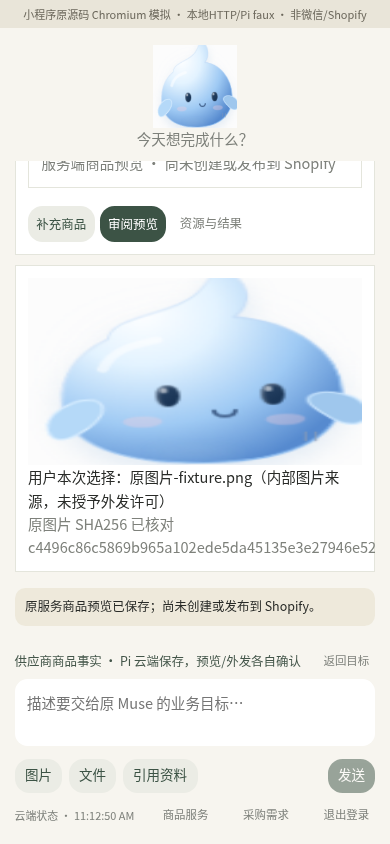
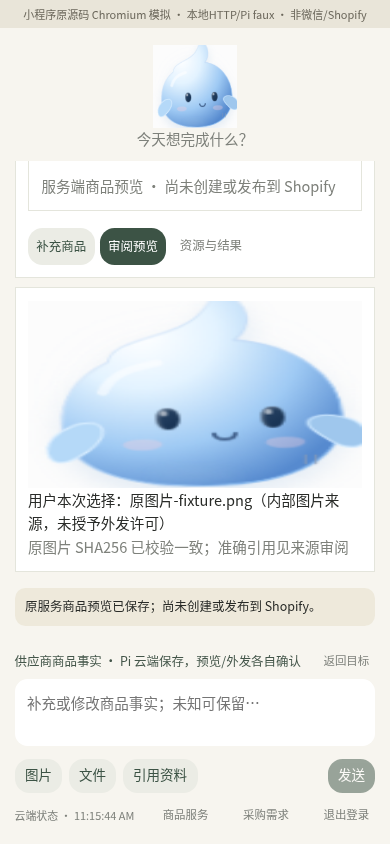
fix(wechat): keep supplier summaries concise and recover exact read receipts

Changed region(s): [[0.0615, 0.1848, 0.9538, 0.6777], [0.0615, 0.8009, 0.6154, 0.8626], [0.2462, 0.955, 0.3077, 0.9858]]

diff --git a/miniprogram/src/shared/supplier.ts b/miniprogram/src/shared/supplier.ts
@@ -8,7 +8,7 @@ export type SupplierService = { id: string; serviceId: string; conversationId: s
 };
 export type SupplierSample = { salesStatus: string; trafficStatus: string; sales: { grossUnits: number; cancelledUnits: number; refundedUnits: number; retainedUnits: number; revenue: null } | null;
   traffic: { sessions: number; sampledAt: string; coverage: { from: string; to: string }; complete: boolean; dataLagSeconds: number | null; source: string } | null;
-  sampledAt: string; coverage: { from: string; to: string }; dataLagSeconds: number | null; completePagination: boolean; errors: { code: string }[]; source: string;
+  sampledAt: string; coverage: { from: string; to: string }; dataLagSeconds: number | null; completePagination?: boolean; errors: { code: string }[]; source?: string;
 };
 export type SupplierSummary = SupplierSample & { monitorId: string; startAt: string; endAt: string; revision: number; contentHash: string; corrected: boolean; provisional: boolean; notificationCount: number; messageId: string };
 export type SupplierMonitor = { id: string; serviceId: string; conversationId: string; scopeHash: string; status: string; scheduleEnabled: boolean; externalNotifications: string;
@@ -33,9 +33,9 @@ export function presentSupplier(value: SupplierService) {
 }
 export function sampleText(sample: SupplierSample | null) {
   if (!sample) return '尚未读取销量与产品流量；缺数不能当作零。';
-  return `${sample.salesStatus === 'available' && sample.sales ? `保留销量 ${show(sample.sales.retainedUnits)}；原下单 ${show(sample.sales.grossUnits)}，取消 ${show(sample.sales.cancelledUnits)}，退款 ${show(sample.sales.refundedUnits)}（可重叠，不重复扣减）` : '销量不可用，未按零处理'}\n${sample.traffic && ['available','partial'].includes(sample.trafficStatus) ? `产品流量 ${show(sample.traffic.sessions)} · ${sample.trafficStatus === 'partial' ? '覆盖不完整' : '原来源可用'}` : `产品流量 ${sample.trafficStatus === 'unsupported' ? '当前来源不支持产品归因' : '不可用'}`}\n采样 ${sample.sampledAt}\n覆盖 ${sample.coverage.from} 至 ${sample.coverage.to}\n延迟 ${sample.dataLagSeconds === null ? '未知' : sample.dataLagSeconds + ' 秒'} · 分页 ${sample.completePagination ? '完整' : '不完整'}\n${sample.errors.map(item=>supplierErrorText(item.code)).join('；')}`;
+  return `${sample.salesStatus === 'available' && sample.sales ? `保留销量 ${show(sample.sales.retainedUnits)}；原下单 ${show(sample.sales.grossUnits)}，取消 ${show(sample.sales.cancelledUnits)}，退款 ${show(sample.sales.refundedUnits)}（可重叠，不重复扣减）` : '销量不可用，未按零处理'}\n${sample.traffic && ['available','partial'].includes(sample.trafficStatus) ? `产品流量 ${show(sample.traffic.sessions)} · ${sample.trafficStatus === 'partial' ? '覆盖不完整' : '原来源可用'}` : `产品流量 ${sample.trafficStatus === 'unsupported' ? '当前来源不支持产品归因' : '不可用'}`}\n采样 ${sample.sampledAt}\n覆盖 ${sample.coverage.from} 至 ${sample.coverage.to}\n延迟 ${sample.dataLagSeconds === null ? '未知' : sample.dataLagSeconds + ' 秒'} · 分页 ${sample.completePagination === undefined ? '总结未提供，见原采样' : sample.completePagination ? '完整' : '不完整'}\n数据源 ${sample.source || '总结未提供，见原采样'}\n${sample.errors.map(item=>supplierErrorText(item.code)).join('；')}`;
 }
 export function presentMonitor(value: SupplierMonitor) {
-  return { ...value, detail: `${value.scope.productId}\n${value.scope.startAt} 至 ${value.scope.endAt}\n${value.scheduleEnabled ? '原 Schedule 已启用，以服务端执行记录为准' : '配置尚未启用，需要原 Schedule 明确审批'}\n${value.stoppedAt ? '已停止原监测' : '状态 ' + value.status}\n${sampleText(value.latestSample)}\n外部通知${value.externalNotifications === 'not_configured' ? '未配置' : '待核对'}`,
-    summaryText: value.summary ? `原会话总结修订 ${value.summary.revision}${value.summary.corrected ? ' · 已更正同一消息' : ''}\n消息 ${value.summary.messageId}\n${sampleText(value.summary)}` : '' };
+  return { ...value, detail: `${value.scope.productId}\n变体 ${value.scope.variantIds.length ? value.scope.variantIds.join('、') : '产品全部变体（原范围）'}\n开始依据 ${value.scope.startSource === 'verified_online_store_publication' ? '已核验在线商店发布时间' : '用户明确 UTC 时间'}\n${value.scope.startAt} 至 ${value.scope.endAt}\n${value.scheduleEnabled ? '原 Schedule 已启用，以服务端执行记录为准' : '配置尚未启用，需要原 Schedule 明确审批'}\n${value.stoppedAt ? '已停止原监测' : '状态 ' + value.status}\n${sampleText(value.latestSample)}\n外部通知${value.externalNotifications === 'not_configured' ? '未配置' : '待核对'}`,
+    summaryText: value.summary ? `原会话总结已保存 · 修订 ${value.summary.revision}${value.summary.corrected ? ' · 已更正同一消息' : ''}${value.summary.provisional ? ' · 数据未齐，等待原来源更正' : ''}\n外部通知未配置；后续更正复用原消息。` : '' };
 }

diff --git a/miniprogram/src/pages/conversation/index.ts b/miniprogram/src/pages/conversation/index.ts
@@ -85,7 +85,7 @@ Page({
       this.setData({ conversationId: id, ...view, messages: view.messages.map(value => value.source === 'procurement' ? { ...value, content: procurementMessage(value.content, value.supplyInquiryId) } : value), cards, readError: '', uncertain: client().uncertain, pendingLabel, pendingSummary: client().pendingSummary, readAt: new Date().toLocaleTimeString(),
         museDrafts: drafts, draftCards, selectedDraft: selected || null, goalBlocked: client().requiresOriginalMuse && (!originalBound || !client().museDraftCapable), busy: view.busy || drafts.some(value => ['pending', 'preparing', 'rejecting'].includes(value.phase)),
         drafting: drafts.some(value => value.phase === 'pending'), needsDraftInput: active?.phase === 'needs_information',
-        composerHint: active?.phase === 'needs_information' ? '只需补充上面必要的信息…' : active?.editable ? '补充或修改这份草案…' : '描述要交给原 Muse 的业务目标…',
+        composerHint: this.data.supplierMode ? this.data.supplierCommand === 'monitors' ? '提供既有 Shopify 商品 gid 和明确 UTC 开始时间…' : this.data.supplierCommand === 'shopify-observation' ? '提供既有 Shopify 商品 gid，可附渠道 publication gid…' : '补充或修改商品事实；未知可保留…' : active?.phase === 'needs_information' ? '只需补充上面必要的信息…' : active?.editable ? '补充或修改这份草案…' : '描述要交给原 Muse 的业务目标…',
         ...(client().pendingDraft && !this.data.draft ? { draft: client().pendingDraft } : {}), ...(client().pendingKind === 'procurement-reply' ? { replyInquiryId: client().pendingInquiryId } : {}), runtimeNotice: client().requiresOriginalMuse && !originalBound ? '原 Muse 会话尚未绑定；目标处理已阻挡，采购需求仍可按需关联与回复。' : client().requiresOriginalMuse && !client().museDraftCapable ? '当前服务尚未提供原 Muse 草案能力；此意图已阻挡，请先完成服务接入。' : snapshot.runtime?.configured === false ? '云端模型尚未接入，发送后会保存请求并显示真实阻挡原因。' : '' });
       if (client().pendingKind.startsWith('supplier-')) this.setData({supplierMode:true,selectedSupplierId:client().pendingSupplierId || this.data.selectedSupplierId});
       this.setData({supplierAvailable:client().supplierCapable});
@@ -180,7 +180,7 @@ Page({
       const data:Record<string,unknown>={expectedRevision:service.revision,shopifyProductId:products[0],confirmed:true};
       if(this.data.supplierCommand==='monitors'){
         const publication=this.data.draft.includes('已核验发布时间');
-        if(publication&&times.length||!publication&&(times.length!==1||!Number.isFinite(Date.parse(times[0])))){this.setData({error:'请明确提供一个 UTC 开始时间，或明确选择“已核验发布时间”；两者不能同时使用。'});return;}
+        if(publication&&times.length||!publication&&(times.length!==1||!Number.isFinite(Date.parse(times[0]))||new Date(times[0]).toISOString()!==(times[0].includes('.')?times[0]:times[0].replace('Z','.000Z')))){this.setData({error:'请明确提供一个 UTC 开始时间，或明确选择“已核验发布时间”；两者不能同时使用。'});return;}
         if(publication){if(service.external?.published!==true||service.external.productId!==products[0]||service.external.publicationTimeSource!=='online_store_published_at'||!service.external.publishedAt){this.setData({error:'原服务没有可用的已核验在线商店发布时间。'});return;}data.startFromPublication=true;}else data.startAt=times[0];
         const variants=this.data.draft.match(/gid:\/\/shopify\/ProductVariant\/\d+/g)||[];if(variants.length)data.variantIds=variants;
       }else{const publication=this.data.draft.match(/gid:\/\/shopify\/Publication\/\d+/g)||[];if(publication.length>1){this.setData({error:'请明确一个渠道 publication ID。'});return;}if(publication.length)data.publicationId=publication[0];}
